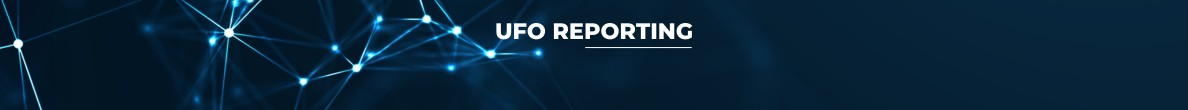
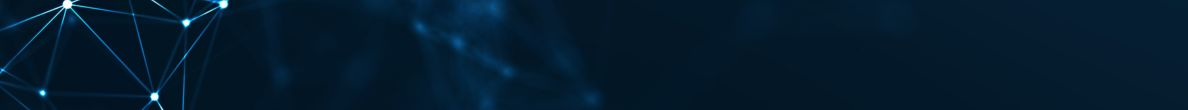
Change map with layer group

diff --git a/public_html/js/scripts.js b/public_html/js/scripts.js
@@ -1,5 +1,4 @@
 /* This file is part of the Leaflet Maps project. */
-
 const options = {
     enableHighAccuracy: true,
     //timeout: 50,
@@ -18,7 +17,7 @@ function error(err) {
         return response.json();
   }).then(function(data) {
         initMap(data.last.latitude, data.last.longitude);
-        console.log("Autor: "+ data.last.author +" / Using default location: " + data.last.latitude + ", " + data.last.longitude);
+        console.log("Author: "+ data.last.author +" / Using default location: " + data.last.latitude + ", " + data.last.longitude);
     });
     
 }
@@ -26,36 +25,39 @@ function error(err) {
 navigator.geolocation.getCurrentPosition(success, error, options);
 
 function initMap(lat, lon) {
+    map = L.map('map').setView([lat,lon], 8);
     console.log("Initializing map with Latitude: " + lat + ", Longitude: " + lon);
-    map = L.map('map').setView([lat,lon], 5);
     L.tileLayer('https://tile.openstreetmap.org/{z}/{x}/{y}.png', {
         minZoom: 2,
         maxZoom: 19,
         wrapLng: 10,
         inertia: false     
     }).addTo(map);
-    
-    fetch('/uploads/leafletmaps/sightings.json').then(response => {
-        return response.json();
-    }).then(data => {
-        L.geoJSON(data, {
-            onEachFeature: onEachFeature
-        }).addTo(map);
-    });
-
+   
+    fetch('/uploads/leafletmaps/sightings.json')
+    .then(response => response.json())
+    .then(data => onEachFeature(data))
+    .catch(error => console.error('Erro ao carregar JSON:', error));
 }
-function onEachFeature(feature, layer) {
-    let popupContent = '';
-    var img = '';
-    if (feature.properties.image != undefined) {
-        img = '<img src="' + feature.properties.image + '" alt="Imagem" width="300">';
-    }
-    popupContent = 
-    '<b>'+ feature.properties.author + '</b><br>' +
-    '<small>' + feature.properties.datetime + '</small><br>' +
-    '<p>' + feature.properties.description + '</p>' +
-    img +
-    '<p><a href="/report/' + feature.properties.slug + '" target="_blank">Detalhes</a></p>';
+function onEachFeature(feature) {
+    var markers = L.markerClusterGroup();
+    // Add the marker to the marker group
+    feature.forEach(point => {
+        var marker = L.marker([point.latitude, point.longitude]);
 
-    layer.bindPopup(popupContent);
+        let popupContent = '';
+        var img = '';
+        if (point.image != undefined) {
+            img = '<img src="' + point.image + '" alt="Imagem" width="300">';
+        }
+        popupContent = 
+        '<b>'+ point.author + '</b><br>' +
+        '<small>' + point.datetime + '</small><br>' +
+        '<p>' + point.description + '</p>' +
+        img +
+        '<p><a href="/report/' + point.slug + '" target="_blank">Detalhes</a></p>';
+        marker.bindPopup(popupContent);
+        markers.addLayer(marker);
+    });
+    map.addLayer(markers);
 }

diff --git a/app/Http/Controllers/ReportController.php b/app/Http/Controllers/ReportController.php
@@ -90,36 +90,25 @@ class ReportController extends Controller
     public function json()
     {
         $reports = Report::where('status', 'approved')->orderByDesc('id')->paginate(500);
-        $json = [
-            'type' => 'FeatureCollection',
-            'features' => []
-        ];
-        
+
         foreach ($reports as $report) {
             $jsonInit['last'] = [
                 'author' => $report->name,
                 'latitude' => (float)$report->latitude,
                 'longitude' => (float)$report->longitude,
             ];
-            $json['features'][] = [
-                'type' => 'Feature',
-                'properties' => [
+            $json[] = [
                     "author" => $report->name,
                     "datetime"=> date('d/m/Y H:i', strtotime($report->sighting)),
                     "description"=> Str::limit($report->description,100,"..."),
                     //"image": "/uploads/reports/default.jpg",
                     //"video": "youtube.com/watch?v=example",
                     "id"=> $report->id,
-                    "slug"=> $report->slug
-                ],
-                'geometry' => [
-                    'type' => 'Point',
-                    'coordinates' => [
-                        (float)$report->longitude,
-                        (float)$report->latitude
-                    ]
-                ]
-            ];
+                    "slug"=> $report->slug,
+                    "latitude"=> (float)$report->latitude,
+                    "longitude"=> (float)$report->longitude,
+                ];
+
         }
         $fileStorePath = "/leafletmaps/";
         $json = json_encode($json, JSON_PRETTY_PRINT);

diff --git a/resources/views/pages/home.blade.php b/resources/views/pages/home.blade.php
@@ -4,6 +4,9 @@
 @section('content')
 <link rel="stylesheet" href="/css/leafletmaps/leaflet.css" />
 <script src="/js/leafletmaps/leaflet.js"></script>
+<link rel="stylesheet" href="https://unpkg.com/leaflet.markercluster@1.4.1/dist/MarkerCluster.css" />
+<link rel="stylesheet" href="https://unpkg.com/leaflet.markercluster@1.4.1/dist/MarkerCluster.Default.css" />
+<script src="https://unpkg.com/leaflet.markercluster@1.4.1/dist/leaflet.markercluster.js"></script>
 
 <h1>UAP Reporting</h1>
 <p>
